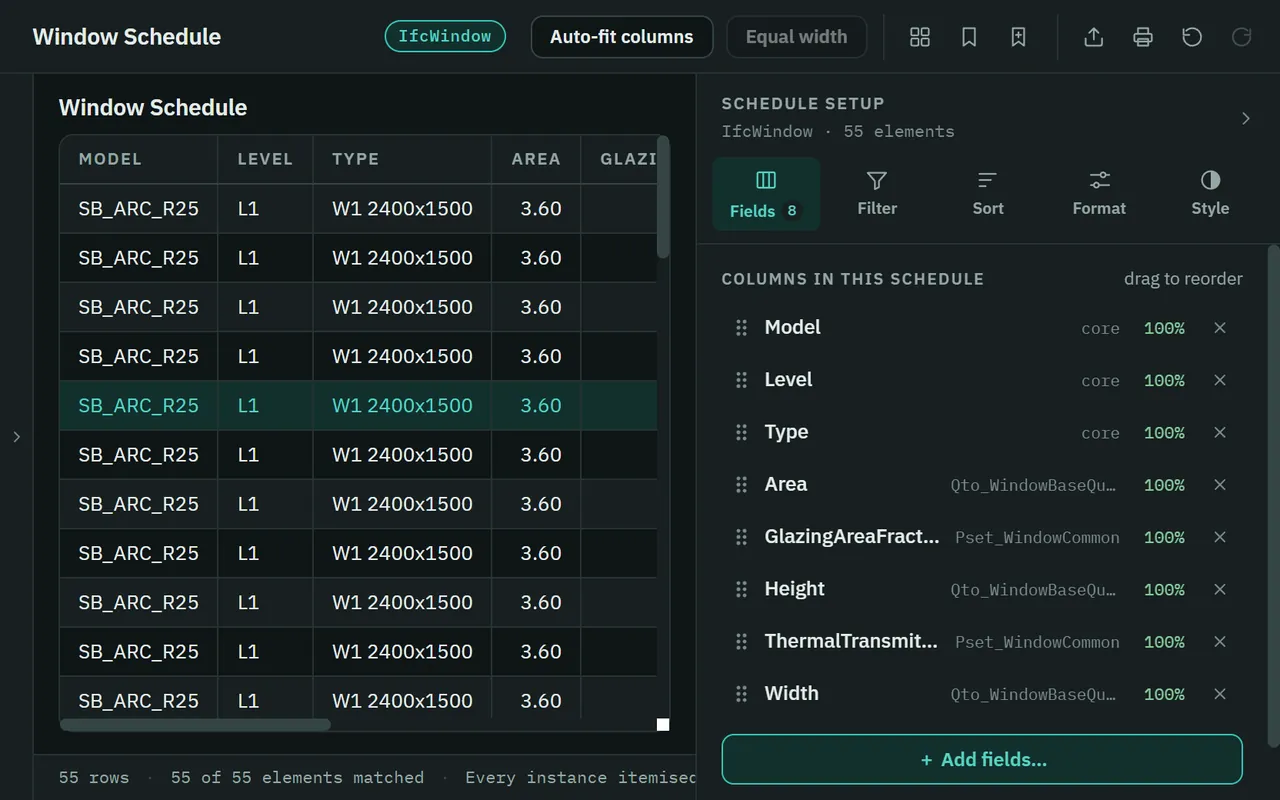
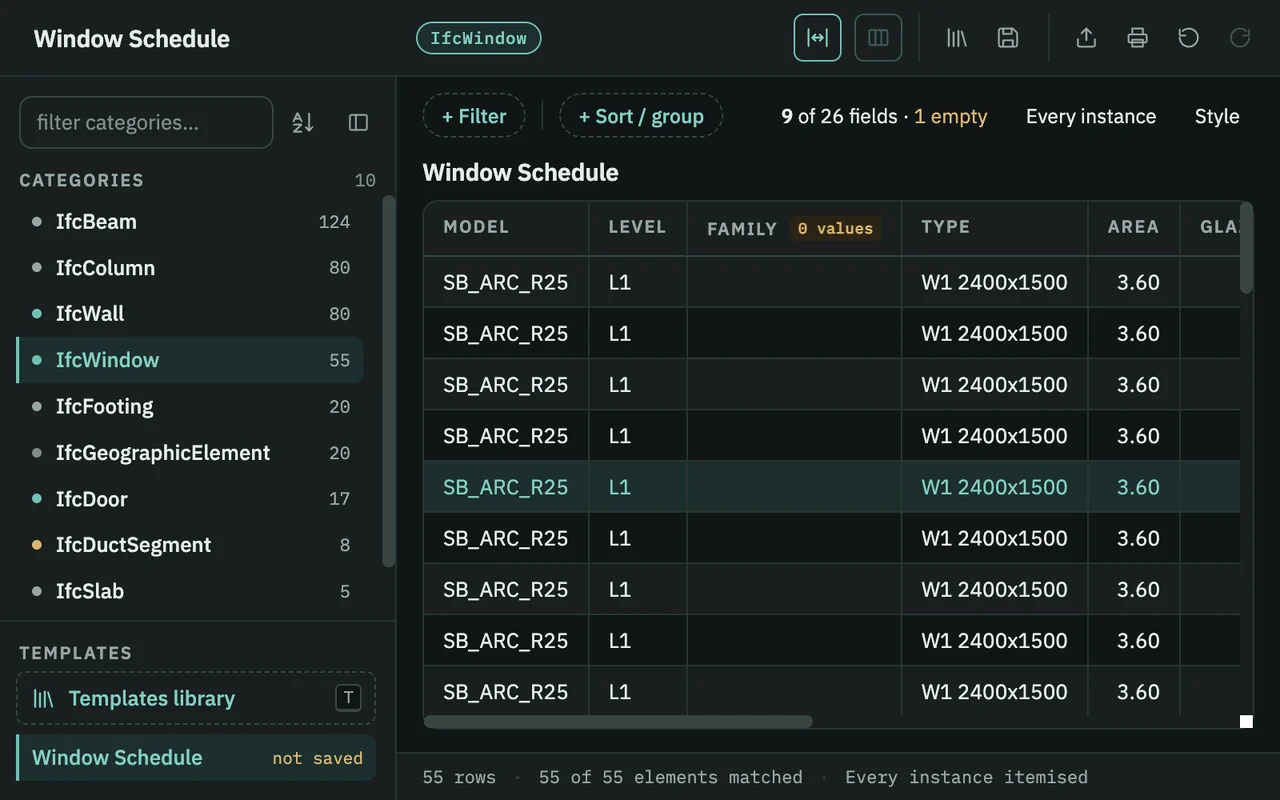
SGVue 1.6.0: what is new, with 1.5.0's changes; the table-first Schedules window
What is new is 1.6.0's: a model seen arriving, projects that reopen in
place, ObjectType as the element's own, a turned building measured
squarely, fixes and security. The site skipped 1.5.0, so three rows carry
its changes: the table-first Schedules window and its Templates library,
Ask Vee as a conversation, and storeys that follow the host.

The Schedules step describes column menus, chips and the Templates
library, with a new picture taken on the demo building. The Meet Vee
replay is labelled a sketch of Vee's steps, and its note says how the
Ask Vee window reads now. The Windows installer is 119 MB, and an
update keeps saved templates.

diff --git a/index.html b/index.html
@@ -244,10 +244,10 @@
             <div class="feat-copy">
               <span class="bubble" aria-hidden="true">H</span>
               <h3>Schedules, in a window of their own</h3>
-              <p>Revit-style schedules of any IFC class: choose the fields, sort, group, total, filter and add calculated columns. Click a row to select it in 3D, colour the model by a column, and export to Excel or CSV when you are done.</p>
+              <p>Revit-style schedules of any IFC class, in a window given over to the table. Click a column’s heading for its menu: total, unit, sorting, grouping and a filter on it. Chips above the table say what the schedule is doing. Start from a template in the Templates library, add calculated columns, click a row to select it in 3D, colour the model by a column, and export to Excel or CSV when you are done.</p>
               <p class="spec"><span>.xlsx</span><span>.csv</span><span>templates</span></p>
             </div>
-            <figure class="feat-shot shot"><img src="img/tour-schedules.webp" width="1280" height="800" loading="lazy" decoding="async" alt="The Schedules window: a Window Schedule of 55 windows with model, level, type and area columns, one row selected, beside the schedule setup with its Fields, Filter, Sort, Format and Style tabs."></figure>
+            <figure class="feat-shot shot"><img src="img/tour-schedules.webp" width="1280" height="800" loading="lazy" decoding="async" alt="The Schedules window on the demo building: a Window Schedule of 55 windows with model, level, family, type and area columns, and one row selected. Chips above the table read + Filter, + Sort / group, 9 of 26 fields, Every instance and Style. The left panel lists the IFC classes with their counts, and the Templates library."></figure>
           </li>
         </ol>
         <div class="tour-stage" id="tour-stage" aria-hidden="true" hidden>
@@ -271,7 +271,7 @@
 
       <div class="vee-grid">
         <div class="replay" id="replay">
-          <p class="replay-flag"><span class="flag">Replay</span> of the Ask Vee panel on the demo building — not a live assistant.</p>
+          <p class="replay-flag"><span class="flag">Replay</span> of Vee answering on the demo building, as a sketch of its steps — not a live assistant, and not a picture of the Ask Vee window.</p>
           <div class="rp-stage">
             <div class="rp" id="rp">
               <div class="rp-head">
@@ -343,7 +343,7 @@
             <li><b>Done</b><span>One row for each level that holds a match. In SGVue, clicking a row selects the walls it counts.</span></li>
           </ol>
           <p class="rp-now" id="rp-now" role="status" aria-live="polite"></p>
-          <p class="fine">The numbers are the demo building’s own: 4 models, 412 elements, 80 walls. The wording of a real answer is the assistant’s, and will differ.</p>
+          <p class="fine">The numbers are the demo building’s own: 4 models, 412 elements, 80 walls. The wording of a real answer is the assistant’s, and will differ. In SGVue, Ask Vee is a window of its own that reads like a messaging app: your questions on the right, Vee’s answer on the left, and its steps as a small diary that folds into one line.</p>
         </div>
       </div>
 
@@ -358,7 +358,7 @@
         </li>
         <li class="fact">
           <h3>Revert puts it back</h3>
-          <p>A reply that changed the view carries <em>revert</em>. It puts back what that reply changed in the view, and only that.</p>
+          <p>A reply that changed the view carries <em>Revert</em>. It puts back what that reply changed in the view, and only that.</p>
         </li>
         <li class="fact">
           <h3>It can never change your model</h3>
@@ -413,7 +413,7 @@
           </li>
           <li>
             <h3><span class="note-n" aria-hidden="true">N4</span>What it writes</h3>
-            <p>Its own settings, the list of your recent files, the view you last had, and what you save as you work: viewpoints, filter sets and schedule setups. These hold settings, file paths, checksums and views, never a model’s contents. A <span class="kbd">.sgvue</span> project file and a schedule export go only where you choose; a project names your IFC files and never contains them. No IFC file is ever modified, moved or re-saved.</p>
+            <p>Its own settings, the list of your recent files, the view you last had, and what you save as you work: viewpoints, filter sets and schedule templates. These hold settings, file paths, checksums and views, never a model’s contents. A <span class="kbd">.sgvue</span> project file and a schedule export go only where you choose; a project names your IFC files and never contains them. No IFC file is ever modified, moved or re-saved.</p>
           </li>
         </ul>
       </div>
@@ -440,10 +440,10 @@
             <tr data-req="mem"><th scope="row">Memory</th><td>About 8 GB for IFC files up to about 100 MB, 16 GB up to about 300 MB, and 32 GB for larger files, up to the 600 MB limit. With several models open at once, add their sizes together. Measured on one PC with generated test models; a real model with less repeated geometry can need more.</td><td class="pc-col" hidden></td></tr>
             <tr data-req="gpu"><th scope="row">Graphics</th><td>Any graphics card with WebGL2. On a PC with an NVIDIA card, SGVue uses it automatically.</td><td class="pc-col" hidden></td></tr>
             <tr><th scope="row">Files</th><td>IFC, as <span class="kbd">.ifc</span> or <span class="kbd">.ifczip</span>, in IFC2X3, IFC4 or IFC4.3, up to 600 MB a file. A file of up to about 300 MB opens in under half a minute; from 300 MB to 600 MB, expect 30–50 seconds — measured on one PC, and a slower PC takes longer. A larger file is not opened — split it into several models.</td><td class="pc-col" hidden></td></tr>
-            <!-- `data-win-size` is the Windows installer's size in 1.4.0's notes (120 MB), replaced by the
+            <!-- `data-win-size` is the Windows installer's size in 1.6.0's notes (119 MB), replaced by the
                  newest Windows installer's when the release API answers; 390 MB is installed on Windows, by the same notes.
                  The Mac line appears with a disk image. -->
-            <tr><th scope="row">Disk</th><td><span class="ln"><span class="os-k" data-mac-only hidden>Windows</span><span>About <span class="nb" data-win-size>120 MB</span> to download, and about <span class="nb">390 MB</span> once installed.</span></span><span class="ln" data-mac-only hidden><span class="os-k">Mac</span><span>About <span class="nb" data-mac-size>—</span> to download.</span></span></td><td class="pc-col" hidden></td></tr>
+            <tr><th scope="row">Disk</th><td><span class="ln"><span class="os-k" data-mac-only hidden>Windows</span><span>About <span class="nb" data-win-size>119 MB</span> to download, and about <span class="nb">390 MB</span> once installed.</span></span><span class="ln" data-mac-only hidden><span class="os-k">Mac</span><span>About <span class="nb" data-mac-size>—</span> to download.</span></span></td><td class="pc-col" hidden></td></tr>
             <tr><th scope="row">Internet</th><td>Not needed to view models. Two things use it: a check for a newer version when SGVue starts, which sends nothing about your files or models, and Ask Vee — only if you set it up with your own Anthropic API key.</td><td class="pc-col" hidden></td></tr>
           </tbody>
         </table>
@@ -483,7 +483,7 @@
               <figcaption>The warning, as a sketch — not a picture of Windows. <strong>More info</strong> comes first; it reveals <strong>Run anyway</strong>.</figcaption>
             </figure>
           </div></li>
-          <li class="step"><span class="bubble" aria-hidden="true">3</span><div><h3>Install, update or repair</h3><p>The setup wizard says which of the three it will do. It installs for your Windows account and asks for no administrator rights. Updating keeps your settings, API key, recent files and saved views.</p></div></li>
+          <li class="step"><span class="bubble" aria-hidden="true">3</span><div><h3>Install, update or repair</h3><p>The setup wizard says which of the three it will do. It installs for your Windows account and asks for no administrator rights. Updating keeps your settings, API key, recent files, saved views and saved templates.</p></div></li>
           <li class="step"><span class="bubble" aria-hidden="true">4</span><div><h3>Stay current</h3><p>SGVue’s start page — where you open models — tells you when a newer version is out. <span class="kbd">Help › Check for updates</span> opens this page, which says whether you are up to date.</p></div></li>
         </ol>
         <ol class="steps" data-os="mac" hidden>
@@ -539,20 +539,21 @@
       <header class="lvl">
         <p class="lvl-tag" aria-hidden="true"><svg class="tri" width="10" height="9"><use href="#i-tri"/></svg><b>07</b><span data-elev="new"></span></p>
         <p class="eyebrow">Revisions</p>
-        <h2 id="h-new">What is new in 1.4.0.</h2>
+        <h2 id="h-new">What is new in 1.6.0.</h2>
       </header>
 
       <table class="sched rev">
-        <caption>Revision 1.4.0</caption>
+        <caption>Revisions 1.6.0 and 1.5.0</caption>
         <thead><tr><th scope="col">Rev</th><th scope="col">Change</th><th scope="col">Description</th></tr></thead>
         <tbody>
-          <tr><td class="rev-n"><svg class="tri delta" width="10" height="9" aria-hidden="true"><use href="#i-tri"/></svg>1.4.0</td><th scope="row">Project files</th><td>Save a coordination review as a <span class="kbd">.sgvue</span> project with <span class="kbd">File › Save Project</span> and open it again later, or on another computer with the same IFC files: which models are open, their colours, what is hidden, filters, sections, the camera, viewpoints, schedules, spots and measurements. The IFC files are only referenced, never copied or changed. Double-click a project, or drop it on SGVue, to open it. A model that changed since opens anyway and says how many saved items no longer match; a missing one offers <strong>Locate…</strong>.</td></tr>
-          <tr><td class="rev-n"><svg class="tri delta" width="10" height="9" aria-hidden="true"><use href="#i-tri"/></svg>1.4.0</td><th scope="row">Origin to origin</th><td>Every model is drawn at its own file’s coordinates, the way Navisworks places models by default; export them from the same coordinates, such as Revit’s Shared Coordinates, to line them up. When the grids stand at an angle, the views and the view cube turn with them, so gridlines are square on screen; no model moves. Gridlines and the canvas grid now start off — turn them on from the toolbar.</td></tr>
-          <tr><td class="rev-n"><svg class="tri delta" width="10" height="9" aria-hidden="true"><use href="#i-tri"/></svg>1.4.0</td><th scope="row">Vee’s own window</th><td>Ask Vee opens in a window of its own, kept above SGVue, so it no longer covers the model beside the property card. Move it and resize it where you like.</td></tr>
-          <tr><td class="rev-n"><svg class="tri delta" width="10" height="9" aria-hidden="true"><use href="#i-tri"/></svg>1.4.0</td><th scope="row">A tidier sidebar</th><td>Click the MODELS header to fold the list away; open, it always shows every model. Hover a model to see where its file is; the library list is gone.</td></tr>
-          <tr><td class="rev-n"><svg class="tri delta" width="10" height="9" aria-hidden="true"><use href="#i-tri"/></svg>1.4.0</td><th scope="row">Cuts in model colours</th><td>What a section cuts is outlined in each model’s own colour, the one its MODELS row shows, so architecture and structure read apart at a glance.</td></tr>
-          <tr><td class="rev-n"><svg class="tri delta" width="10" height="9" aria-hidden="true"><use href="#i-tri"/></svg>1.4.0</td><th scope="row">Fixes and security</th><td>PredefinedType shows the code the file writes, not the ObjectType text. Gridlines, section chips and storeys no longer depend on which file you opened first. Gridline and level names from an IFC file are always shown as plain text, and a value copied from Vee’s tables cannot become a spreadsheet formula. Updated Electron.</td></tr>
-          <tr><td class="rev-n"><svg class="tri delta" width="10" height="9" aria-hidden="true"><use href="#i-tri"/></svg>1.3.0</td><th scope="row">Also since 1.2.0</th><td>SGVue opens in the first model’s own unit, with <span class="kbd">ft</span> beside mm and m. The laser meter reads the distance to the surface on each side of its point. Vee answers with short lists and tables. Several large models open together no longer mix up their elements.</td></tr>
+          <tr><td class="rev-n"><svg class="tri delta" width="10" height="9" aria-hidden="true"><use href="#i-tri"/></svg>1.6.0</td><th scope="row">See a model arrive</th><td>Add a model to a view that is already open and the 3D view shows it coming in: a thin line along the top edge fills in five steps, and a small caption names the file and the step, then says how many elements it added. Nothing is drawn over your model and nothing blocks the mouse.</td></tr>
+          <tr><td class="rev-n"><svg class="tri delta" width="10" height="9" aria-hidden="true"><use href="#i-tri"/></svg>1.6.0</td><th scope="row">Projects reopen in place</th><td>A saved <span class="kbd">.sgvue</span> project with two or more models could reopen with its models metres apart. Every model now shares the one origin, when you open a project and when you bring a missing model back with <strong>Locate…</strong>. Nothing is aligned automatically: a model whose file puts it in the wrong place is still shown there. Saving a project no longer swaps a missing model for another file of the same name.</td></tr>
+          <tr><td class="rev-n"><svg class="tri delta" width="10" height="9" aria-hidden="true"><use href="#i-tri"/></svg>1.6.0</td><th scope="row">ObjectType, the element’s own</th><td>The ObjectType tile shows the element’s own ObjectType attribute, as other BIM viewers do; it used to show the name of the element’s type, a Revit “Family:Type”, whenever there was one. An element with no ObjectType shows a dash, and a saved filter on ObjectType that named a type’s name now matches only elements whose own ObjectType is that text. The type’s name is still in the Schedules window’s Family and Type columns.</td></tr>
+          <tr><td class="rev-n"><svg class="tri delta" width="10" height="9" aria-hidden="true"><use href="#i-tri"/></svg>1.6.0</td><th scope="row">A turned building, measured squarely</th><td>On a building that is turned in its file’s coordinates, the box round a selected element and its three dimensions are square with the grids again, and read the element’s own length, width and height. Ask Vee measures the same way: clash candidates, nearby elements, distances and sizes are taken along the building’s own axes.</td></tr>
+          <tr><td class="rev-n"><svg class="tri delta" width="10" height="9" aria-hidden="true"><use href="#i-tri"/></svg>1.6.0</td><th scope="row">Fixes and security</th><td>Asking Vee to show a single storey can wait for your <strong>Apply</strong> on a tall building, as isolating a few elements already did. The Spatial-structure card names the file’s own coordinate system. A schedule filter typed as <span class="kbd">.5</span> is read as 0.5. The model database Ask Vee reads stays read-only after it is built, and a schedule file, saved template or project can no longer name a built-in word as a column.</td></tr>
+          <tr><td class="rev-n"><svg class="tri delta" width="10" height="9" aria-hidden="true"><use href="#i-tri"/></svg>1.5.0</td><th scope="row">A table-first Schedules window</th><td>The Schedules window gives the whole window to the table; its right-hand panel is gone. Click a column’s heading for everything about that column in one menu, and read the chips above the table for what the schedule is doing: each filter, sort and group level. The built-in templates and your own saved ones are in one Templates library, with a search and a preview on the models you have open.</td></tr>
+          <tr><td class="rev-n"><svg class="tri delta" width="10" height="9" aria-hidden="true"><use href="#i-tri"/></svg>1.5.0</td><th scope="row">Vee, as a conversation</th><td>The Ask Vee window reads like a chat in a messaging app: your questions on the right, Vee’s answer on the left as one bubble per paragraph, list or table. While Vee works, a small diary shows every step with its live count, then folds into one line. A follow-up keeps to what Vee just found, and a question that asks to tabulate is answered with a table in the chat. Vee uses Claude Sonnet 5.5 unless you choose another model.</td></tr>
+          <tr><td class="rev-n"><svg class="tri delta" width="10" height="9" aria-hidden="true"><use href="#i-tri"/></svg>1.5.0</td><th scope="row">Storeys follow the host</th><td>A part, a nested component, or a door or window that only fills an opening in a wall, and is not placed on a storey itself, now stands on its host’s storey. A model where every element is placed on a storey directly — most Revit exports — is unchanged.</td></tr>
         </tbody>
       </table>
       <p class="after"><a class="link" href="https://github.com/sgvue/releases/releases">Every release, with its notes →</a></p>
@@ -571,12 +572,12 @@
         <details class="q"><summary><span class="q-n" aria-hidden="true">Q1</span>Is it free?</summary><div class="q-a"><p>Yes. SGVue costs nothing to download or to use, and there is no account, no licence key and no trial period. The one part with a cost is Ask Vee, and that is paid to Anthropic, not to SGVue.</p></div></details>
         <details class="q"><summary><span class="q-n" aria-hidden="true">Q2</span>Does it change or upload my models?</summary><div class="q-a"><p>No. SGVue has no way to write an IFC file, and your files are read on your own computer. No file is uploaded, and a project you save names your IFC files and never contains them. If you use Ask Vee, your question and what it looks up to answer go to Anthropic under your own key — never the file itself.</p></div></details>
         <details class="q"><summary><span class="q-n" aria-hidden="true">Q3</span>Which files does it open?</summary><div class="q-a"><p>IFC files as <span class="kbd">.ifc</span> or <span class="kbd">.ifczip</span>, in the IFC2X3, IFC4 and IFC4.3 schemas. Open one, or several together as a federation. ifcXML is not supported, and a single file larger than 600 MB is not opened.</p></div></details>
-        <details class="q"><summary><span class="q-n" aria-hidden="true">Q4</span>How big is it?</summary><div class="q-a"><p>The <span data-mac-only hidden>Windows </span>installer is about <span class="nb" data-win-size>120 MB</span>, and SGVue takes about <span class="nb">390 MB</span> once installed.<span data-mac-only hidden> The Mac disk image is about <span class="nb" data-mac-size>—</span>.</span> It opens IFC files of up to 600 MB: about 8 GB of memory is enough for files up to about 100 MB, 16 GB up to about 300 MB, and 32 GB for larger ones. With several models open, add their sizes together.</p></div></details>
+        <details class="q"><summary><span class="q-n" aria-hidden="true">Q4</span>How big is it?</summary><div class="q-a"><p>The <span data-mac-only hidden>Windows </span>installer is about <span class="nb" data-win-size>119 MB</span>, and SGVue takes about <span class="nb">390 MB</span> once installed.<span data-mac-only hidden> The Mac disk image is about <span class="nb" data-mac-size>—</span>.</span> It opens IFC files of up to 600 MB: about 8 GB of memory is enough for files up to about 100 MB, 16 GB up to about 300 MB, and 32 GB for larger ones. With several models open, add their sizes together.</p></div></details>
         <details class="q"><summary><span class="q-n" aria-hidden="true">Q5</span>Is there a Mac version?</summary><div class="q-a"><p id="q-mac">Yes, for macOS 13 Ventura or later, on Apple silicon or an Intel processor. Both disk images are on the <a href="https://github.com/sgvue/releases/releases/latest">latest release’s page</a>. SGVue is not notarised by Apple, so the first time you open it, choose <strong>Open Anyway</strong> in <span class="kbd">System Settings › Privacy &amp; Security</span>.</p></div></details>
         </div>
         <div class="faq-col">
         <details class="q"><summary><span class="q-n" aria-hidden="true">Q6</span>Why does Windows warn me?</summary><div class="q-a"><p>The installer is not code-signed, so Windows cannot tell who published it and says so before it runs. Choose <strong>More info</strong>, then <strong>Run anyway</strong>. If you would like more than that, <a href="#verify">verify your download</a> first: it takes one line in PowerShell.</p></div></details>
-        <details class="q"><summary><span class="q-n" aria-hidden="true">Q7</span>How do I update?</summary><div class="q-a"><p>On Windows, download the newer setup file and run it over the old one: the wizard says <strong>Update</strong>, and your settings, API key, recent files and saved views are kept.<span data-mac-only hidden> On a Mac, drag the newer SGVue into Applications and choose <strong>Replace</strong>; macOS asks once more before it opens it, as it did the first time.</span> SGVue’s start page shows a notice when a newer version exists.</p></div></details>
+        <details class="q"><summary><span class="q-n" aria-hidden="true">Q7</span>How do I update?</summary><div class="q-a"><p>On Windows, download the newer setup file and run it over the old one: the wizard says <strong>Update</strong>, and your settings, API key, recent files, saved views and saved templates are kept.<span data-mac-only hidden> On a Mac, drag the newer SGVue into Applications and choose <strong>Replace</strong>; macOS asks once more before it opens it, as it did the first time.</span> SGVue’s start page shows a notice when a newer version exists.</p></div></details>
         <details class="q"><summary><span class="q-n" aria-hidden="true">Q8</span>What does Vee cost?</summary><div class="q-a"><p>SGVue charges nothing for it. Vee runs on your own Anthropic API key, so Anthropic bills your account for what you use; how much depends on the model you choose in Preferences and how much you ask. Without a key, nothing is sent and nothing is charged.</p></div></details>
         <details class="q"><summary><span class="q-n" aria-hidden="true">Q9</span>How do I uninstall it?</summary><div class="q-a"><p>In Windows, open <span class="kbd">Settings › Apps</span>, find SGVue in the list of installed apps and choose Uninstall. The uninstaller removes the app and keeps your settings, recent files and saved views.<span data-mac-only hidden> On a Mac, drag SGVue from Applications to the Trash.</span> It never touches your IFC files.</p></div></details>
         <details class="q"><summary><span class="q-n" aria-hidden="true">Q10</span>Is SGVue open source?</summary><div class="q-a"><p>Yes. Its source code is public on GitHub, at <a href="https://github.com/sgvue/sgvue">github.com/sgvue/sgvue</a>, under the <a href="https://github.com/sgvue/sgvue/blob/main/LICENSE">Apache License 2.0</a>. The licence grants no right to use the name SGVue or its logo.</p></div></details>
